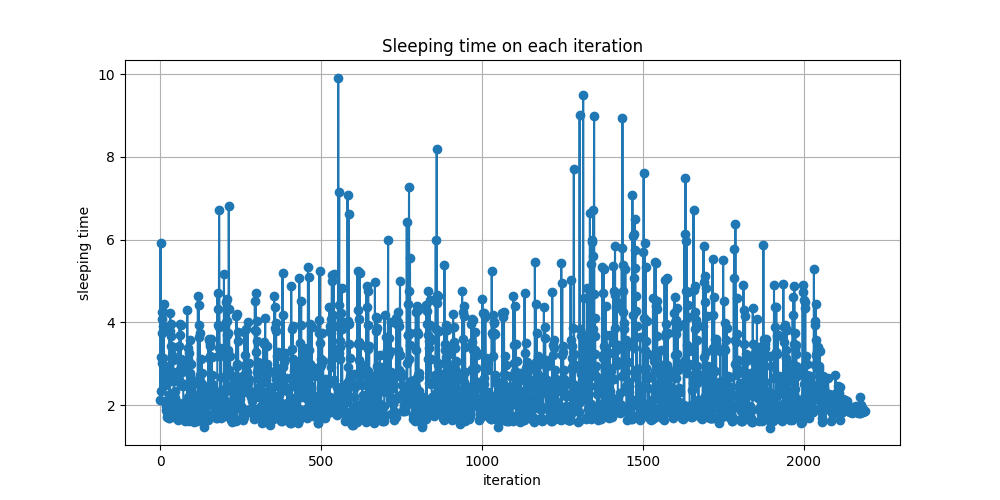
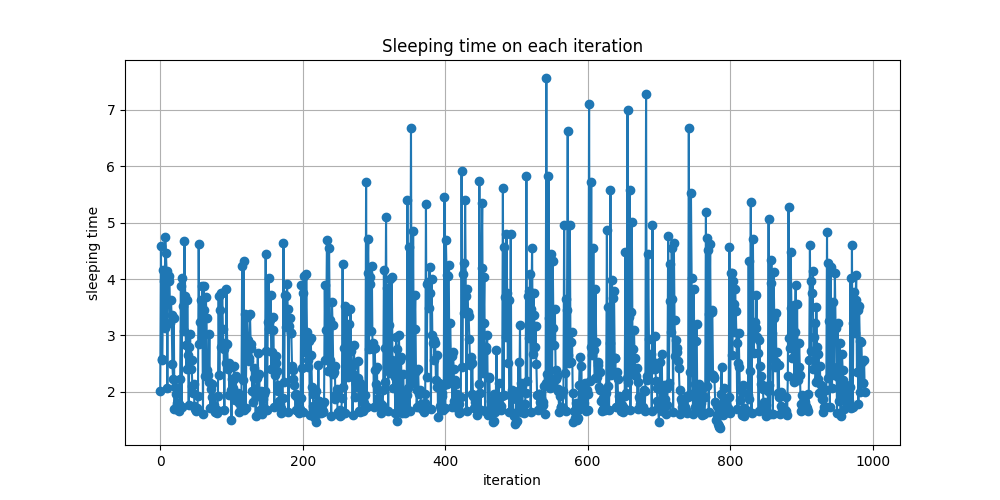
utilization feature implemented

diff --git a/environment/env.py b/environment/env.py
@@ -57,6 +57,7 @@ class Environment:
         self.barrier = mp.Barrier(environment_config['multi_agent'] + 1)
         # kick off the state
         self.state.update(self.manager)
+        self.state.update_utilization_metrics()
         print("Starting agents .....")
         for i in range(environment_config['multi_agent']):
             # organize and start the agents
@@ -82,6 +83,7 @@ class Environment:
                        
                 if iteration % 10 == 0 and iteration != 0:
                     print(f"iteration : {iteration}", len(self.state.jobs))
+                    self.state.update_utilization_metrics()
                     if iteration % 100 == 0:
                         self.save_time_log()
                         self.make_agents_plots()
@@ -203,7 +205,7 @@ class Environment:
         plt.savefig(path)
 
     def make_agents_plots(self, plot_path=learning_config['result_plot_path']):
-        # saving the agent logs gatherd from the state
+        # Get filtered data
         filtered_data = {k: v for k, v in self.state.agent_log.items() if v}
         time_list = [v["time"] for v in filtered_data.values()]
         energy_list = [v["energy"] for v in filtered_data.values()]
@@ -221,99 +223,98 @@ class Environment:
 
         path_history = self.state.paths
 
-        fig, axs = plt.subplots(6, 2, figsize=(15, 36))
-        axs[0, 0].plot(loss_list,
-                       label='Loss', color="blue", marker='o')
-        axs[0, 0].set_title('Loss')
-        axs[0, 0].legend()
+        fig = plt.figure(figsize=(25, 40))
+        gs = fig.add_gridspec(5, 2)  # 6 rows,  columns
 
-        # Plot for time
-        axs[0, 1].plot(time_list,
-                       label='Time', color="red", marker='o')
-        axs[0, 1].set_title('Time')
-        axs[0, 1].legend()
+        # Plot Loss
+        ax1 = fig.add_subplot(gs[0, 0])
+        ax1.plot(loss_list, label='Loss', color="blue", marker='o')
+        ax1.set_title('Loss')
+        ax1.legend()
+        ax1.grid(True)
 
-        # Plot for energy
-        axs[1, 0].plot(energy_list,
-                       label='Energy', color="green", marker='o')
-        axs[1, 0].set_title('Energy')
-        axs[1, 0].legend()
+        # Plot Time
+        ax2 = fig.add_subplot(gs[0, 1])
+        ax2.plot(time_list, label='Time', color="red", marker='o')
+        ax2.set_title('Time')
+        ax2.legend()
+        ax2.grid(True)
 
-        # Plot for all fail
-        axs[1, 1].plot(fails_list,
-                       label='ALL Fails', color="purple", marker='o')
-        axs[1, 1].set_title('Fail')
-        axs[1, 1].legend()
+        # Plot Energy
+        ax3 = fig.add_subplot(gs[1, 0])
+        ax3.plot(energy_list, label='Energy', color="green", marker='o')
+        ax3.set_title('Energy')
+        ax3.legend()
+        ax3.grid(True)
 
-        axs[2, 0].plot(safe_fails_list,
-                       label='Safe task Fail', color="purple", marker='o')
-        axs[2, 0].set_title('Fail')
-        axs[2, 0].legend()
+        # Plot All Fails
+        ax4 = fig.add_subplot(gs[1, 1])
+        ax4.plot(fails_list, label='ALL Fails', color="purple", marker='o')
+        ax4.set_title('Fail')
+        ax4.legend()
+        ax4.grid(True)
 
-        # Plot for kind fail
-        axs[2, 1].plot(kind_fails_list,
-                       label='Task kind Fail', color="purple", marker='o')
-        axs[2, 1].set_title('Fail')
-        axs[2, 1].legend()
+        # Plot Safe Fails
+        ax5 = fig.add_subplot(gs[2, 0])
+        ax5.plot(safe_fails_list, label='Safe task Fail', color="purple", marker='o')
+        ax5.set_title('Fail')
+        ax5.legend()
+        ax5.grid(True)
 
-        # Plot for queue fail
-        axs[3, 0].plot(queue_fails_list,
-                       label='Queue full Fail', color="purple", marker='o')
-        axs[3, 0].set_title('Fail')
-        axs[3, 0].legend()
+        # Plot Kind Fails
+        ax6 = fig.add_subplot(gs[2, 1])
+        ax6.plot(kind_fails_list, label='Task kind Fail', color="purple", marker='o')
+        ax6.set_title('Fail')
+        ax6.legend()
+        ax6.grid(True)
 
-        # Plot for battery fail
-        axs[3, 1].plot(battery_fails_list,
-                       label='Battery punish', color="purple", marker='o')
-        axs[3, 1].set_title('Fail')
-        axs[3, 1].legend()
+        # Plot Device Type Usage
+        ax7 = fig.add_subplot(gs[3, 0])
+        ax7.plot(iot_usage, label='IoT Usage', color='blue', marker='o')
+        ax7.plot(mec_usuage, label='MEC Usage', color='orange', marker='x')
+        ax7.plot(cc_usuage, label='Cloud Usage', color='green', marker='s')
+        ax7.set_title('Devices Usage History')
+        ax7.set_xlabel('Epochs')
+        ax7.set_ylabel('Usage')
+        ax7.legend()
+        ax7.grid(True)
 
-        axs[4, 0].plot(iot_usage, label='IoT Usage', color='blue', marker='o')
-        axs[4, 0].plot(mec_usuage, label='MEC Usage', color='orange', marker='x')
-        axs[4, 0].plot(cc_usuage, label='Cloud Usage', color='green', marker='s')
-        axs[4, 0].set_title('Devices Usage History')
-        axs[4, 0].set_xlabel('Epochs')
-        axs[4, 0].set_ylabel('Usage')
-        axs[4, 0].legend()
-        axs[4, 0].grid(True)
-
-        # Heatmap for path history
-        # print(path_history)
+        # Plot Path History Heatmap
         if path_history and len(path_history) > 0:
-
+            ax8 = fig.add_subplot(gs[3, 1])
             output_classes = make_paths(len(path_history[0][0]))
             path_counts = np.zeros((len(path_history), len(output_classes)))
 
             for epoch in range(len(path_history)):
                 epoch_paths = path_history[epoch]
-
                 for path in epoch_paths:
                     path_index = output_classes.index(path)
                     path_counts[epoch, path_index] += 1
 
-             # Find the threshold value (excluding top 10 values)
+            # Find threshold value
             flat_counts = path_counts.flatten()
-            sorted_counts = np.sort(flat_counts)  # Get non-zero values
+            sorted_counts = np.sort(flat_counts)
             if len(sorted_counts) > 10:
-                threshold = sorted_counts[-11]  # Get the 11th highest value
+                threshold = sorted_counts[-11]
+                path_counts = np.minimum(path_counts, threshold)
+
+            sns.heatmap(path_counts, cmap="YlGnBu", xticklabels=output_classes, ax=ax8)
+            ax8.set_title('Path History Heatmap')
+            ax8.set_xlabel('Output Classes')
+            ax8.set_ylabel('Epochs')
+
+        ax9 = fig.add_subplot(gs[4:, :])  # Use last two rows and span all columns
+        colors = ['blue'] * devices_config['iot']['num_devices'] + \
+                ['orange'] * devices_config['mec']['num_devices'] + \
+                ['green'] * devices_config['cloud']['num_devices']
         
-            path_counts = np.minimum(path_counts, threshold)
-            # Clamp the values to the threshold
-            sns.heatmap(path_counts, cmap="YlGnBu",
-                        xticklabels=output_classes, ax=axs[4, 1])
-            axs[4, 1].set_title(f'Path History Heatmap ')
-            axs[4, 1].set_xlabel('Output Classes')
-            axs[4, 1].set_ylabel('Epochs')
-            
-        # colors = ['blue'] *  devices_config['iot']['num_devices'] + ['orange'] *  devices_config['mec']['num_devices'] + ['green'] * devices_config['cloud']['num_devices']
-        # axs[5, 0].bar(range(1, len(self.state.device_usuages) + 1), [sum(x) for x in self.state.device_usuages], color=colors)
-        # axs[5, 0].set_title('PE ACTIVITY History')
-        # axs[5, 0].set_xlabel('Device')
-        # axs[5, 0].set_yticks([]) 
-        # axs[5, 0].set_xticks(range(1, len(self.state.device_usuages) + 1)) 
-        # Adjust layout to prevent overlap
+        # Calculate device usage from state's device_usage list
+        device_usage = [sum(usage) for usage in self.state.device_usage]
+        ax9.bar(range(1, len(device_usage) + 1), device_usage, color=colors)
+        ax9.set_title('PE Activity History')
+        ax9.set_xlabel('Device')
+        ax9.set_yticks([])
+        ax9.set_xticks(range(1, len(device_usage) + 1))
+
         plt.tight_layout()
-
-        # Save the plots to an image file
         plt.savefig(plot_path)
-

diff --git a/environment/state.py b/environment/state.py
@@ -1,4 +1,5 @@
 import numpy as np
+import torch
 import pandas as pd
 import torch.multiprocessing as mp
 
@@ -33,6 +34,7 @@ class State:
         self.paths = manager.list()
         self.display = environment_config['display']
         self.lock = mp.Lock()
+    
 
     
 
@@ -71,16 +73,23 @@ class State:
         except:
             return
     
-    def apply_action(self, pe_ID, core_i, freq, volt, task_ID, utilization=None, diversity=None, gin=None,failed=False):
+    def update_utilization_metrics(self):
+        utilization = [sum(usage) for usage in self.device_usage ]
+        used_devices_count = sum(1 for usage in self.device_usage  if 1 in usage)
+        self.gin = gini_coefficient(utilization)
+        self.diversity = used_devices_count / len(self.db_devices)
+        self.utilization = torch.tensor(utilization, dtype=torch.float)
+        
+    def apply_action(self, pe_ID, core_i, freq, volt, task_ID, failed=False):
         try:
             pe_dict = self.PEs[pe_ID]
             pe = self.db_devices[pe_ID]
             task = self.db_tasks[task_ID]
             job_dict = self.jobs[task["job_id"]]
-        except:
+        except Exception as e:
             if failed:
                 return 0, [0,0,0,0], 0, 0
-            return self.apply_action(pe_ID, core_i, freq, volt, task_ID, utilization, diversity, gin,True)
+            return self.apply_action(pe_ID, core_i, freq, volt, task_ID,True)
 
         with self.lock:
             # OPTIMIZATION: Calculate totals before lock
@@ -110,24 +119,23 @@ class State:
                 self.preprocessor.queue.remove(task_ID)
             except:
                 pass
-
         try:
             self.update_device_usage(pe_ID)
         except:
             pass
         
-        battery_punish, batteryFail = self.util.checkBatteryDrain(total_e, pe_dict, pe)
-        if batteryFail:
-            fail_flags[3] = 1
-            return sum(fail_flags) * reward_function(punish=True), fail_flags, 0, 0
+        if learning_config['drain_battery']:
+            battery_punish, batteryFail = self.util.checkBatteryDrain(total_e, pe_dict, pe)
+            if batteryFail:
+                fail_flags[3] = 1
+                return sum(fail_flags) * reward_function(punish=True), fail_flags, 0, 0
 
         lambda_penalty = 0
         if learning_config['utilization']:
-            lambda_diversity = learning_config["max_lambda"] * (1 - diversity)
-            lambda_gini = learning_config["max_lambda"] * gin
+            lambda_diversity = learning_config["max_lambda"] * (1 - self.diversity)
+            lambda_gini = learning_config["max_lambda"] * self.gin
             lambda_penalty = learning_config["alpha_diversity"] * lambda_diversity + learning_config["alpha_gin"] * lambda_gini
-
-        return reward_function(t=total_t + lag_time, e=total_e) + battery_punish, fail_flags, total_e, total_t + lag_time
+        return reward_function(t=total_t + lag_time, e=total_e) * (1 - lambda_penalty * self.utilization[pe_ID]) + battery_punish, fail_flags, total_e, total_t + lag_time
 
     def save_agent_log(self, assigned_job, dict, path_history):
         with self.lock:

diff --git a/model/agent.py b/model/agent.py
@@ -59,11 +59,7 @@ class Agent(mp.Process):
                 self.t_counter = 0
                 self.local_actor_critic.reset_memory()
                 self.init_logs()
-                # utilization = [sum(usage) for usage in self.state.device_usuages ]
-                # gin = gini_coefficient(utilization)
-                # used_devices_count = sum(1 for usage in self.state.device_usuages  if 1 in usage)
-                # diversity = used_devices_count / len(self.devices)
-                # utilization = torch.tensor(utilization, dtype=torch.float)
+
             # retrive the agent task_queue
             try:
                 task_queue = self.state.preprocessor.get_agent_queue().get(self.assigned_job)
@@ -75,9 +71,7 @@ class Agent(mp.Process):
             self.t_counter += 1
             try:
                 if self.t_counter >= self.time_out_counter :
-                    print("job 1stuck")
                     if current_job and len(current_job["runningTasks"]) ==0 :
-                        print("job 2stuck")
                         self._timeout_on_job()
                     continue
             except:
@@ -86,7 +80,6 @@ class Agent(mp.Process):
            
             
             for task in task_queue:
-                # self.schedule(task,gin,diversity,utilization)
                 self.schedule(task)
                 
                 
@@ -97,9 +90,7 @@ class Agent(mp.Process):
                 continue
             if current_job and len(current_job["runningTasks"]) + len(current_job["finishedTasks"]) == current_job["task_count"]:
                 print(f"DONE")
-                # start_time = time.time()
                 self.update()
-                # print(self.name,"TOOK " ,time.time()-start_time,"UPDATE UPDATE PARAMETERS")
                 self.assigned_job = None
 
     def stop(self):
@@ -112,10 +103,10 @@ class Agent(mp.Process):
         """Remove device with synchronized state dict update."""
         self.util = Utility(devices=self.devices)
         
-    def schedule(self, current_task_id,gin=None,diversity=None,utilization=None):
+    def schedule(self, current_task_id):
             # retrieve the necessary data
         current_task = self.state.db_tasks[current_task_id]
-        input_state = self.util.get_input(current_task,gin=None,diversity=None)
+        input_state = self.util.get_input(current_task)
 
         action, path, devices = self.local_actor_critic.choose_action(input_state)
         selected_device_index = action

diff --git a/configs.py b/configs.py
@@ -114,7 +114,7 @@ learning_config = {
     "should_explore": False,
     "explore_epsilon": 1e-5,
 
-    "drain_battery": False,
+    "drain_battery": True,
 
     ###### INPUT & OUTPUT #######
     "onehot_kind": True,  # one-hotting the task kind
@@ -130,20 +130,20 @@ learning_config = {
     #   ppo
 
     "ppo_epsilon": 0.2,  # Reduced from 0.2 for more stable updates
-    "gae_lambda": 0.95,  # Increased from 0.95 for better advantage estimation
+    "gae_lambda": 0.0,  # Increased from 0.95 for better advantage estimation
     "ppo_epochs":10, 
     "lr": 0.001, 
 
     "critic_hidden_layer_num": 1,
     "critic_hidden_layer_dim": 256,
 
-    "discount_factor": 0.99,  # 0: reward , 0.99:return
+    "discount_factor": 0.0,  # 0: reward , 0.99:return
 
     'scalability': True,
     'add_device_iterations': 0.01,  # Probability of adding device each iteration
     'remove_device_iterations': 0.01,  
 
-    "utilization": False,
+    "utilization": True,
     "alpha_diversity": 1,
     "alpha_gin": 1,
     "max_lambda": 10,

diff --git a/environment/util.py b/environment/util.py
@@ -7,7 +7,7 @@ class Utility:
         self.min_time, self.max_time, self.min_energy, self.max_energy = self.get_min_max_time_energy()
 
     # FEATURE EXTRACTION
-    def get_input(self, task, diversity, gin):
+    def get_input(self, task):
 
         if learning_config['regularize_input']:
             compLoad = [min(jobs_config["task"]["computational_load"]) * 1e6,
@@ -40,10 +40,6 @@ class Utility:
                 task["task_kind"],
             ])
 
-        if learning_config['utilization']:
-            task_features.extend([
-                diversity, gin
-            ])
         return task_features
 
     def get_min_max_time_energy(self):

diff --git a/model/utils.py b/model/utils.py
@@ -159,8 +159,6 @@ def get_num_input():
     num_input = 5
     if learning_config['onehot_kind']:
         num_input = 8
-    if learning_config['utilization']:
-        num_input +=2
     return num_input
 
 
